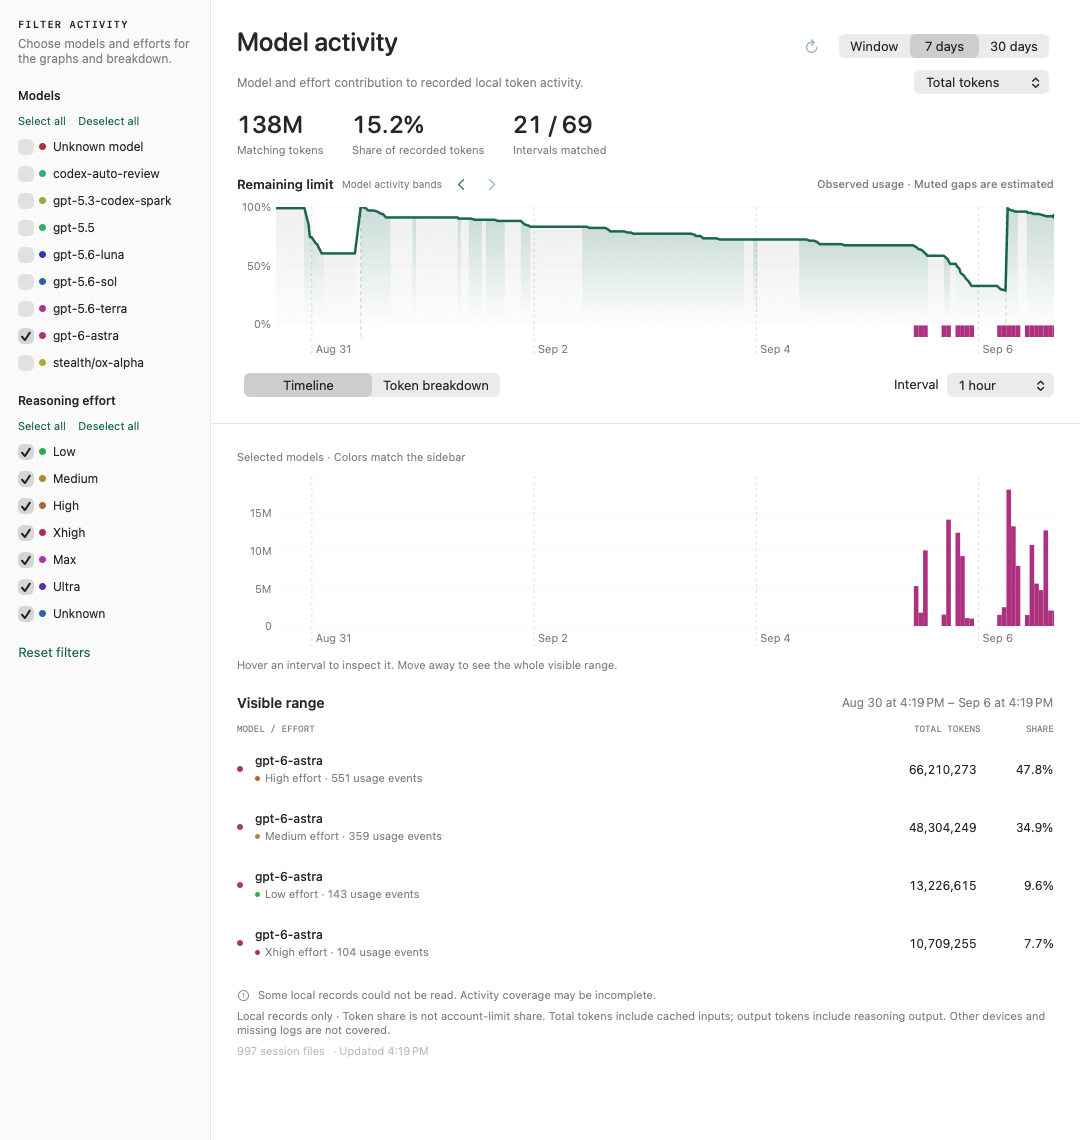
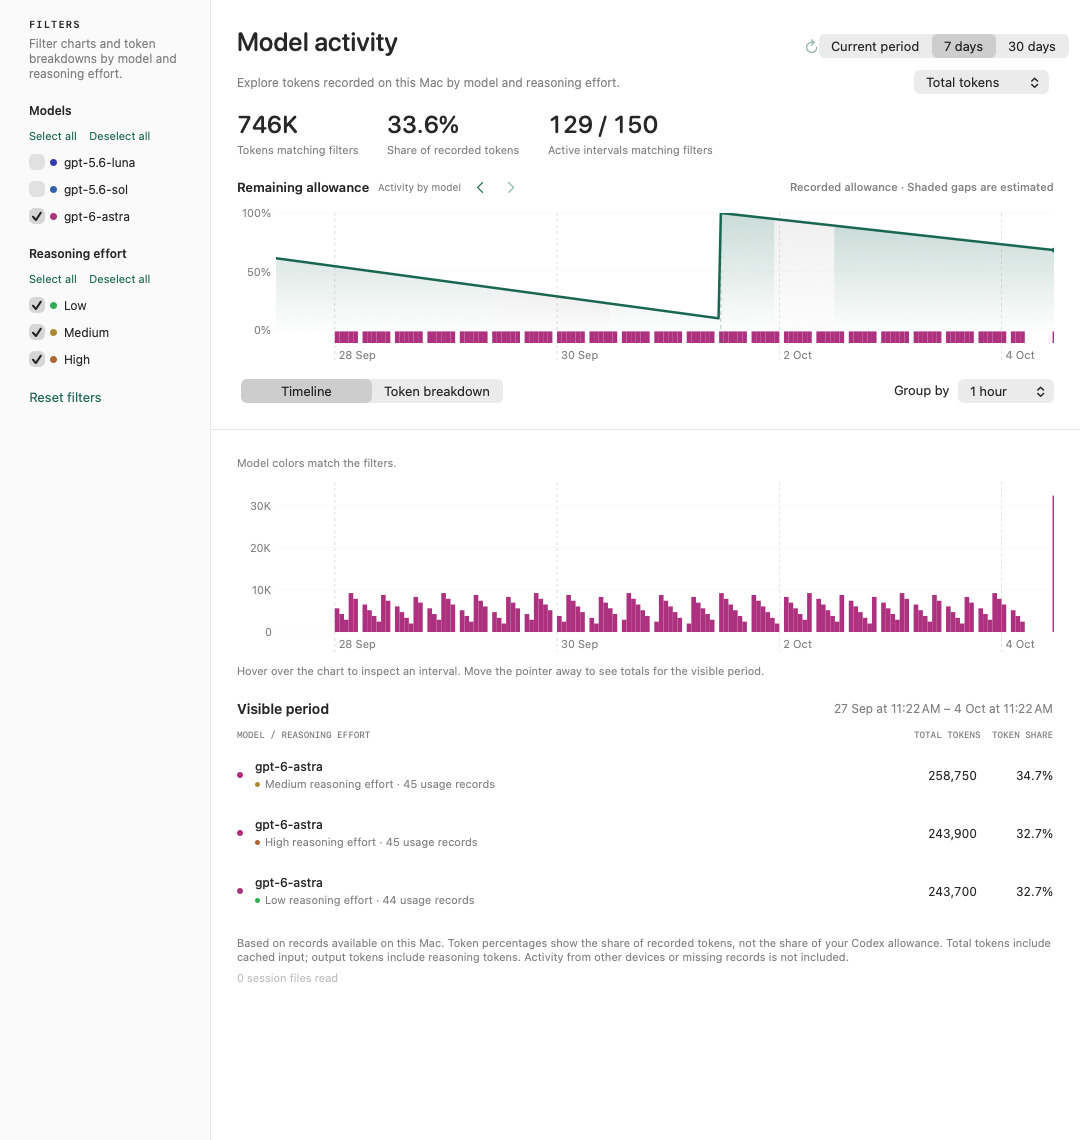
Refresh README pictures for the current interface
Show the selectable usage periods and menu-bar appearance options with current production-view renders. Replace the real activity screenshot with synthetic data and clarify image captions so the documentation reflects the released interface without sharing account history.

Validate preview builds, rendered images, README image references, and aligned app/widget versions for source-only release 0.5.13 (40).

diff --git a/README.md b/README.md
@@ -16,9 +16,9 @@
 </p>
 
 <p align="center">
-  <img src="docs/images/menu-and-widgets.png" width="908" alt="Codex Limits menu showing remaining balance, usage forecast, reset time, and suggested pace beside the weekly graph and percentage widgets">
+  <img src="docs/images/menu-and-widgets.png" width="908" alt="Codex dashboard with five-hour and weekly balance selectors, the weekly forecast, and weekly graph and percentage widgets in dark appearance">
   <br>
-  <sub>The current native menu and both desktop widgets. The menu and widgets use synthetic example data.</sub>
+  <sub>The Codex weekly dashboard and both desktop widgets, rendered from the current app views with synthetic example data.</sub>
 </p>
 
 > [!NOTE]
@@ -37,6 +37,17 @@ providers and is saved across launches. [Icon sources and attribution](docs/prov
 Both providers refresh independently,
 with separate saved readings, history, chart preferences, and weekly widgets. Your existing
 Codex history stays in place.
+
+<details>
+<summary>Menu-bar appearance options</summary>
+<p align="center">
+  <img src="docs/images/menu-bar-codex.png" width="446" alt="Codex menu-bar label previews: icon only, text only, and icon and text, each retaining the usage percentage in dark and light appearance">
+  <br>
+  <img src="docs/images/menu-bar-claude.png" width="524" alt="Claude Code menu-bar label previews: icon only, text only, and icon and text, each retaining the usage percentage in dark and light appearance">
+  <br>
+  <sub>SwiftUI label previews with synthetic percentages. Choose a style in Settings → Appearance → Menu bar.</sub>
+</p>
+</details>
 
 The provider, usage-window, and chart-range selectors share a subtle segmented style.
 The **5-hour** and **Weekly** segments show both remaining balances together. Select
@@ -87,10 +98,19 @@ The Claude OAuth approach was informed by
 This implementation does not import CodexBar or read browser cookies.
 
 <p align="center">
-  <img src="docs/images/claude-menu.png" width="820" alt="Claude Code selected in the menu, with remaining allowance, forecast, and five-hour limit in dark and light appearance">
+  <img src="docs/images/claude-menu.png" width="992" alt="Claude Code five-hour chart selected, with both remaining balances, hourly usage budget, and model limit in dark and light appearance">
   <br>
-  <sub>Claude Code dashboard with synthetic example data.</sub>
+  <sub>Claude Code with the 5-hour chart selected. Both balances stay visible; all readings are synthetic example data.</sub>
 </p>
+
+<details>
+<summary>The same account with Weekly selected</summary>
+<p align="center">
+  <img src="docs/images/claude-weekly.png" width="992" alt="The same synthetic Claude Code account with Weekly selected, showing the weekly history, forecast, and usage budget in dark and light appearance">
+  <br>
+  <sub>Select Weekly to see its own history, forecast, and usage budget without fetching another reading.</sub>
+</p>
+</details>
 
 <details>
 <summary>Claude desktop widgets</summary>
@@ -211,7 +231,7 @@ partial intervals at its edges. Choose **Total tokens** or **Output tokens**.
 <p align="center">
   <img src="docs/images/model-activity.png" width="1080" alt="Model Activity in light appearance with a model filter, remaining-limit burndown, token timeline, and reasoning-effort detail rows for the visible seven-day range">
   <br>
-  <sub>Real local activity with Astra selected, alongside the account's recorded remaining-limit history.</sub>
+  <sub>Synthetic local activity with Astra selected, alongside example remaining-limit history. No real account or session data is shown.</sub>
 </p>
 
 <p align="center">
